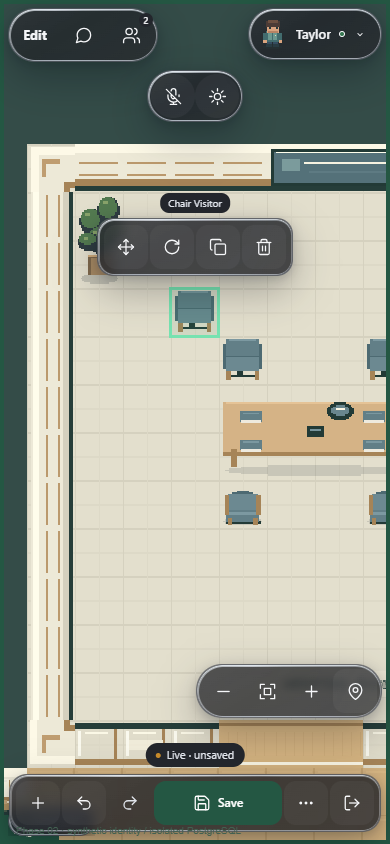
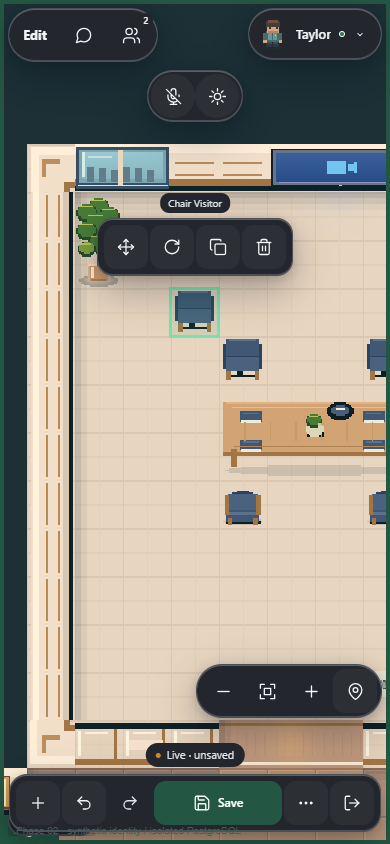
feat: add premium office visual overhaul with new assets, performance metrics, and import instructions

diff --git a/docs/premium-office-visuals.md b/docs/premium-office-visuals.md
@@ -1,0 +1,112 @@
+# Premium office visual overhaul
+
+## Audit before changes
+
+The playable renderer is Phaser with nearest-neighbor sampling and rounded camera pixels. Shared deterministic composition supplies both Colyseus collision and the Canvas2D preview. Five layouts, five themes, three decor densities, three furniture sets and owner accents/rugs/planters provide 10,800 configurations. The current 512×1024 atlas holds legacy art, 92 expanded definitions and native directional chairs. Live decoration updates preserve object identities and update sprites/collision in place.
+
+The supplied reference has much stronger separation between dark fabrics, warm wood, bright trim and foliage, luminous fixtures, deeper furniture shading and deliberate clusters of room furnishings. The existing render is considerably flatter: narrow tonal ranges, plain monitor faces, repetitive circular foliage, simple rectangular cushions, thin shelving details, largely unlit walls and wide empty margins. Architecture and connected circulation are already substantially developed; replacing them with an illustration would lose working gameplay.
+
+Constraints: a native 32-pixel cell and 64-pixel workstation cannot reproduce all the reference's fine detail at overview zoom. Existing asset and base-object identities must remain valid for saved owner overrides. Added furniture must pass the same doorway, seating and circulation rules. Cosmetic light must never alter authoritative collision, voice geometry or map revisions. No screen-sharing capability is implied by display art.
+
+## Implemented art direction and assets
+
+Native 32-pixel cells, consistent upper-left highlights, ink-blue seating, warm oak, cream joinery, colored book spines, linen sofa cushions, screen UI details, dense foliage and warm light pools replace the flatter presentation. Wood/stone floors and woven rugs remain distinct. Theme identity is retained: pale graphite Minimal, sage Scandinavian, slate Dark Tech, oak Warm Wood and green Eco. Existing glass, half walls, architectural corners, thresholds, corridors and room shapes remain modular.
+
+The catalog now has **99 expanded definitions and 113 editor entries** including legacy assets and rugs. Seven new silhouettes are appended after the existing directional frames, within the same 512×1024 atlas:
+
+| ID | Native size | Placement and behavior |
+| --- | --- | --- |
+| `deskTriple` | 96×64 | Three monitors, peripherals, embedded usable north-facing chair |
+| `beanBag` | 32×32 | Canvas upholstery, one usable south-facing seat |
+| `livingWall` | 96×32 | Hanging greenery; supported wall decoration |
+| `gameConsole` | 64×32 | Entertainment display; supported wall decoration, no game/share action |
+| `trophyShelf` | 64×32 | Recessed awards shelf; supported wall decoration |
+| `sculpture` | 32×32 | Brass loop on a stone plinth; blocking decoration |
+| `windowPanel` | 64×32 | Framed daylight/city artwork; supported wall decoration |
+
+Existing desks, sofas, plants, shelves, reception/pantry joinery, meeting tables, sconces and displays have new artwork. Chair families retain their native four directions, and new desk/bean-bag seat anchors are explicitly registered. Art stays within each original crop. The new pieces have one authored orientation; the editor does not invent unsupported rotations. TV `displaySurfaces` metadata reserves exact screen rectangles for later integration, with `interactive:false` and no screen-sharing capability.
+
+Metadata remains content-owned: `assets.ts` specifies IDs, atlas crops, dimensions and modes; `decoration.ts` supplies editor categories, footprints and valid orientations; `seating-metadata.ts` supplies anchors/exits; `interactions.ts` registers capabilities; `OfficeScene.renderFurniture()` supplies stable depth/foreground ordering. All assets are available in all five theme atlases. Editor thumbnails and hit-testing use the actual atlas pixels.
+
+## Pipeline
+
+`pnpm assets:office` builds five reusable atlases from original integer-pixel artwork. The premium pass is `scripts/premium-office-art.mjs`; it is layered over the maintained architecture/directional-chair sources. Existing atlas rectangles remain fixed. Each atlas is approximately 29–30 KiB compressed, 2 MiB RGBA decoded, and only the selected theme is loaded by a running office.
+
+`scripts/import-office-art.mjs` adds an offline artist-sprite import stage after generation. [Import instructions](../assets/office/imports/README.md) cover exact-size RGBA8 PNG exports, theme/orientation selection, provenance, license record and SHA256. The importer supports all five PNG row filters and rejects wrong dimensions, oversized output, unknown targets, duplicate targets, missing provenance, changed hashes and paths escaping the import directory. It cannot change collision or grant interactions. The manifest intentionally contains no unlicensed or purported commissioned art.
+
+`pnpm assets:editor-catalog` regenerates the new SQL allowlist migration. It does not execute SQL.
+
+## Composer, editor and live update compatibility
+
+The five original floor plans and their distinct topology remain intact. A bounded additive furnishing pass supplies lamps, wall greenery, lounge media, bean bags, planters and selected executive triple-monitor desks. It never replaces or renames existing base furniture. `minimal` remains sparse by design; `rich` supplies the reference arrangement. Every new blocking placement preserves existing seat approaches and verifies connectivity of the remaining boundary neighbors. Failed optional slots are omitted rather than moved into doorways or circulation lanes.
+
+New optional objects are marked in composition metadata. Saved owner-authored objects take priority if their footprints overlap new optional styling. Shared resolution and actual map composition both omit the competing optional object; the stored owner document is not rewritten. Tests cover a pre-existing lounge-chair placement over the new bean-bag slot.
+
+The same original editor supports select, drag, duplicate, delete, supported rotation, undo/redo and authoritative Save. Lighting follows accepted/preview furniture positions, including move/delete/undo, without rebuilding the Phaser scene. Atlas alpha hit-testing and actual thumbnail artwork remain in use. No HUD components, movement speeds, voice protocols or tenant permissions were changed.
+
+## Lighting and performance
+
+`environmentAtmosphere()` builds a deterministic cosmetic paint list, clipped to actual interior floor and excluded from architectural cells. It supplies edge shadows, lamp/doorway pools, subtle monitor light and reception toe-light. It never changes map geometry, collision, seating, zone data or network revisions. The Canvas preview consumes the same paint rules.
+
+The first implementation replayed about 53,000 Graphics commands per frame. The mobile-emulation capture exposed that cost, so it was replaced with **one nearest-filtered CanvasTexture**, rasterized at one texel per four world pixels and refreshed only when furniture positions change. The reference uses 408×320 texels (522,240 RGBA bytes) and one image. This is a static light overlay; furniture remains at native resolution. No blur, dynamic light engine or full-screen shader is used. Scene shutdown removes the owned texture.
+
+Final isolated headless Brave/WebGL samples, 120 frames each:
+
+| Profile | Median frame interval | P95 | Maximum |
+| --- | --- | --- | --- |
+| 1440×1000 desktop | 16.7 ms | 16.8 ms | 17.4 ms |
+| 390×844, 4× CPU throttle | 16.7 ms | 50.0 ms | 199.8 ms |
+
+The reference scene had 162 display objects and 17 texture-manager entries, including engine/avatar resources. [Raw measurements](assets/premium-office/performance.json) identify the profile. The mobile profile still showed intermittent stalls; this is not a claim of consistent 60 FPS on physical phones. The initial unbaked run was worse (50 ms median, 166 ms P95) but also ran alongside other checks, so it is not a controlled speedup ratio. Real mobile GPU/memory and long-session measurements remain outstanding.
+
+## Actual visual review
+
+The baseline and final images are actual Phaser captures, not concept images or static map replacements. The first rendered pass prompted fuller foliage, stronger lamps, more deliberate planter placement and the light-texture optimization. All five layouts and the mobile overview were inspected after rendering.
+
+- [Before](assets/premium-office/00-before.png) and [same balanced Open Office after](assets/premium-office/01-open-office-balanced.png).
+- [Premium reference: Open Office / Warm Wood / Rich / Standard / Gold / Woven runner / Ceramic](assets/premium-office/02-reference-rich.png).
+- Close-ups: [lounge](assets/premium-office/03-lounge-closeup.png), [workstations](assets/premium-office/04-workstations-closeup.png), [reception](assets/premium-office/05-reception-closeup.png), [pantry](assets/premium-office/06-pantry-closeup.png).
+- Other layouts: [Corporate HQ / Dark Tech](assets/premium-office/07-corporate-hq.png), [Startup / Scandinavian](assets/premium-office/08-startup-office.png), [Co-working / Minimal Light](assets/premium-office/09-coworking-space.png), [Training / Eco Green](assets/premium-office/10-training-hub.png).
+- [Mobile reference overview](assets/premium-office/11-mobile-reference.png).
+
+Visible improvement: upholstery/pillows and monitors read more clearly; foliage and shelves carry more color; warm lights ground the fixtures; woven rugs and stone corridor seams create better material separation. The five themes and layouts remain distinguishable.
+
+**Fidelity limitation:** this is a substantive playable art pass, not a match for the reference illustration. The reference still has finer organic foliage, more convincing volumetric furniture, larger/lusher feature walls and more carefully dressed room clusters. Some existing furniture families remain simple, the broad original circulation is retained, and overview zoom reduces visible detail (especially mobile). Commissioned native-scale sprite replacements through the new import pipeline, plus reviewed room recipes, are still needed for that final level of visual polish. Passing tests is not subjective visual acceptance.
+
+## Validation
+
+| Check | Result and evidence |
+| --- | --- |
+| Full unit suites | 236 passed: realtime 68, web 168; `.cache/premium-unit-final.log`, `.cache/premium-web-verified.log` |
+| Final composition/art/safety recheck | 13 passed after the connectivity optimization; `.cache/premium-composition-final.log` |
+| Configuration coverage | All 225 core compositions have connected floor, reachable markers/fixtures, valid meeting zones and deterministic geometry; all 10,800 option combinations remain distinct; final exhaustive composition run 42.7 seconds under concurrent checks |
+| Disposable PostgreSQL | 2 suites passed: private drafts, active verified OWNER checks, denied browser writer, cross-tenant access, revisions, atomic live Save/retries and new 113-entry catalog; `.cache/premium-database-art.log` |
+| Artwork import | 2 tests passed including all PNG filters, native crop placement and invalid manifest/hash/dimensions; same log |
+| Lint / TypeScript | Web and realtime passed, zero lint warnings; `.cache/premium-lint-final.log`, `.cache/premium-typecheck-final.log` |
+| Production builds | Web and realtime passed; `.cache/premium-build-final.log` |
+| Actual renderer / environment browser | Passed all five layouts, real Arcade wall/door probes, preview variants, owner feedback, camera/resize, one renderer and final screenshots; `.cache/premium-render-final.log` |
+| Live editor browser | Passed incremental peer updates, stable scene/unaffected sprites/camera/avatar/voice owners, occupied-seat/member denial, conflict, failed Save retry and durable refresh |
+| Directional seating browser | Passed two-client native cardinal frames, desk alignment/foreground, occupancy, sofa and safe standing |
+| Movement/seating browser | Passed authoritative run/sit/stand, closest prompt and mobile controls |
+| Engine browser | Passed rendering, focus, collision, camera/zoom, resize and repeated destruction |
+| Proximity and voice browsers | Both passed consent, zone cleanup, capsule containment, responsive controls, serialized media ownership and denial handling |
+
+The latter six browser suites all passed with no skips in `.cache/premium-browser-regressions.log`; together with the environment renderer suite this is **7 passing browser suites**. Those fixtures explicitly distinguish simulated authorization/media boundaries from real user acceptance.
+
+The legacy engine regression also recorded 24.1 FPS alone / 21.5 FPS with ten synthetic players using SwiftShader during the concurrent validation workload. That is a different map, viewport and workload from the isolated premium-reference frame samples; it reinforces that these measurements are local diagnostics, not a general performance certification.
+
+## Main changed files
+
+- Art: `scripts/premium-office-art.mjs`, `generate-environment-assets.mjs`, `expanded-office-art.mjs`, `import-office-art.mjs`; five generated `apps/web/public/office/environments/*.png` files.
+- Shared content: `packages/shared/src/environment/assets.ts`, `catalog.ts`, `rooms.ts`, `compose.ts`, `visuals.ts`, `decoration.ts`, `seating-metadata.ts`, plus `map.ts` and `interactions.ts`.
+- Rendering: `apps/web/src/features/office/scenes/office-scene.ts`, `features/environment/environment-preview.tsx`.
+- Persistence allowlist: `scripts/generate-editor-catalog.mjs`, `supabase/migrations/20261106000200_premium_office_catalog.sql`.
+- Validation: `premium.test.ts`, updated editor catalog test, `scripts/office-art.test.mjs`, updated environment and live-editor browser fixtures and disposable SQL tests.
+
+## Local activation and remaining scope
+
+Reload local web/realtime code together so both authorities compose the same catalog. Existing playable office layouts acquire the upgraded art automatically; select the reference settings above to see the richest example. No real workspace settings were changed to force that configuration.
+
+**The new `20261106000200_premium_office_catalog.sql` migration has only been applied to disposable PGlite test databases.** Hosted persistence of the seven new asset IDs requires applying that migration through the approved database process (and the preceding live-editing migration, if still pending). The migration replaces only the private asset-validation allowlist. No remote SQL, tenant rows or production data were changed here.
+
+Browser fixtures use actual Phaser/Colyseus and isolated PostgreSQL, with synthetic verified identities and simulated media/provider boundaries. They do not prove real hosted Auth acceptance or physical LiveKit audio. No deployment or Git operations were performed.

diff --git a/assets/office/imports/README.md b/assets/office/imports/README.md
@@ -1,0 +1,23 @@
+# Offline sprite imports
+
+The original procedural source remains in `scripts/*office-art.mjs`. This directory accepts artist-authored replacements without changing gameplay metadata. No third-party artwork is bundled.
+
+Export transparent, non-interlaced RGBA8 PNG at the **exact native dimensions** of `fixtures[assetId]` (32 pixels per grid cell). Do not upscale or resize. A chair's optional `facing` must name an existing authored direction. Maintain its seat anchor and silhouette. Importing artwork never creates new orientations, geometry or capabilities.
+
+Add an entry to `manifest.json`:
+
+```json
+{
+  "assetId": "wallDisplay",
+  "theme": "warm-wood",
+  "file": "warm-wood/display.png",
+  "author": "Artist name",
+  "license": "original",
+  "source": "Original commissioned artwork; reference or license record",
+  "sha256": "64 lowercase hex characters from the PNG's SHA256"
+}
+```
+
+Permitted license labels are `original`, `CC0`, and `licensed`; the latter requires retaining the actual license record with the source. A label is not proof of permission: review provenance before adding files. Run `pnpm assets:office`, then the asset and browser tests. The importer rejects escaping paths/symlinks, mismatched hashes, dimensions, formats, duplicate targets and oversized decoded payloads. It supports all five PNG row filters. It copies native pixels into the same five atlases; editor thumbnails, preview and game consume that exact artwork. No remote fetch or runtime asset upload is involved.
+
+The manifest starts empty intentionally: no generated image is misrepresented as commissioned high-resolution art. Higher-fidelity art can be introduced one reviewed asset at a time. Keep the primary grid and seating constraints, and capture actual Phaser screenshots for every replacement.
